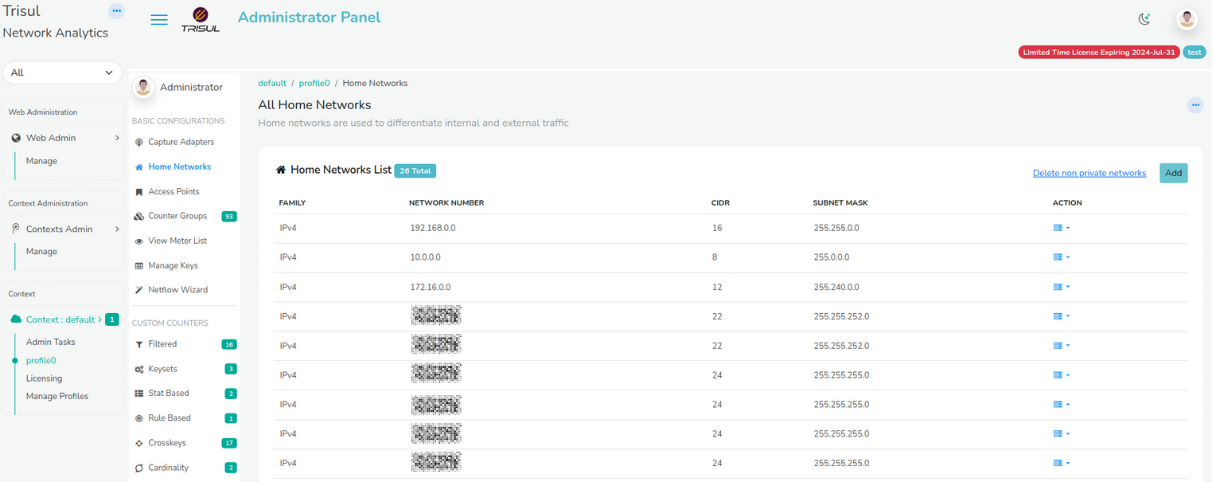
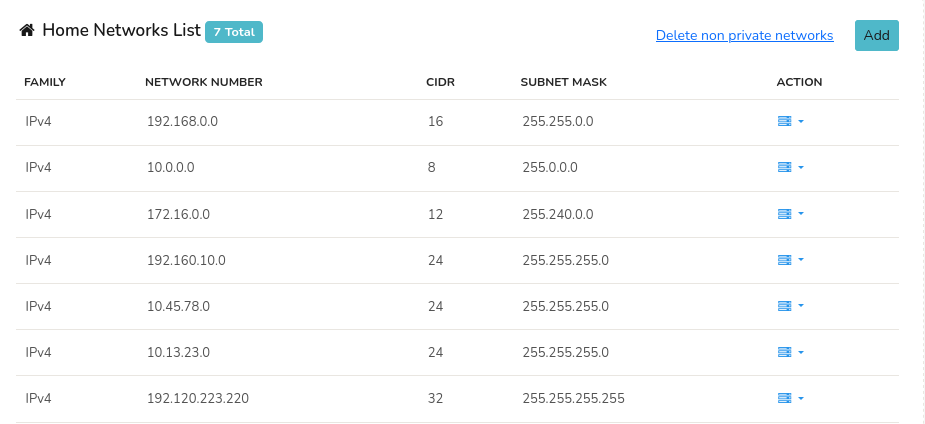
home networks screenshot changed since the old screenshot had masked ips. and navigation details added as login as user to view home network traffic.

diff --git a/trisuldocs/docs/ag/context/home_networks.md b/trisuldocs/docs/ag/context/home_networks.md
@@ -27,49 +27,41 @@ reports and views. If you want to add a new subnet to your home network
 or edit an existing entry, follow these steps.
 
 :::info navigation
-
-:point_right: (login as admin) Select *Context : default &rarr; profile0 -&rarr; Home
-Networks*
-
+:point_right: (login as admin) Go to Context: Default &rarr; Profile0 &rarr; Home
+Networks
 :::
 
 You are shown the following screen
 
-![](images/homenetworks.png)
-
+![](images/homenetworks.png)  
 *Figure: Showing a list of configured Home Network subnets*
 
-- Click on **Add a network**  
+- Click on **Add** button on the upper right hand side.   
 
-- Enter an IP and a subnetmask (eg, 59.92.0.0 and 255.255.0.0) that
-  represents your home network  
+- Enter an IP and a subnet mask (eg, 59.92.0.0 and 255.255.0.0) that
+  represents your home network.  
 
-- Click **Create** button to add a new home network
+- Click **Create** button to add a new home network.
 
 ## Adding Home Networks in Bulk
 
 When you click on “Add” in the Home Networks screen you can see the Add
 form below
 
-![](images/create_homenetwork_form.png)
-
+![](images/create_homenetwork_form.png)  
 *Figure: The add subnetworks screen*
 
-Here you can
+Here you can:
+### Add one by one 
+Add one by one a single network number in "Network Number" and subnet mask in "Network Mask"
 
-1. **Add one by one** : a single network number in "Network Number" and subnet mask in "Network Mask"
-2. **Add in bulk** : Simply copy paste a series of **comma separated** or
-   **one-per-line** networks in CIDR format in "Network Number". When using the CIDR format you can leave the "Network Mask" field blank.
+### Add in bulk  
+Simply copy paste a series of **comma separated** or **one-per-line** networks in CIDR format in "Network Number". When using the CIDR format you can leave the "Network Mask" field blank.
 
 ## Deleting
 
-1. Delete any single home network by pressing the “Delete” link next to
-   it.
-2. You can press the “Delete non private networks” to delete all the
-   elements in bulk except the three built-in private ranges. Use this
-   option if you want to add the home networks in bulk later.
-
-
+1. Click on the action button against any network number and delete any single home network by clicking the “Delete” option.
+2. You can click the “Delete non private networks” button on the top right to delete all the elements in bulk except the three built-in private ranges. Use this option if you want to add the home networks in bulk later.
 
 ## Viewing Traffic Direction
 
@@ -80,19 +72,16 @@ following data.
 ### Metrics in the Aggregates Counter Group.
 
 :::info navigation
-
-:point_right: Select *Tools &rarr; Long Term Traffic*
-
+:point_right: Login as `user` and Go to Tools &rarr; Long Term Traffic
 :::
 
 1. Counter group = Aggregates
 2. Meter = Total
-3. Keys to the Item = DIR_INTOHOME,DIR_OUTOFHOME,DIR_TRANSIT,DIR_WITHINHOME
+3. Keys to the Item = DIR_INTOHOME, DIR_OUTOFHOME, DIR_TRANSIT, DIR_WITHINHOME
 
 The following chart gives you the traffic details in each direction.
 
-![](images/longterm_traffic.png)
-
+![](images/longterm_traffic.png)  
 *Figure: Directional chart determined by the Home Network settings*
 
 ### Flows
@@ -105,8 +94,7 @@ Trisul has the ability to use Flow Taggers to tag each flow with a direction hin
 3. For example to see all *Transit* flows , enter `tag=[dir]transit` in
    the tool's search query.
 
-![](images/explore_flows.png)
-
+![](images/explore_flows.png)  
 *Figure: search for directional flows using a custom flow tagger*
 
 Also see user guide sections: [Flow Taggers](/docs/ug/flow/tagger), [Explore Flows](/docs/ug/tools/explore_flows)

diff --git a/trisuldocs/docs/ag/context/profiles.md b/trisuldocs/docs/ag/context/profiles.md
@@ -2,7 +2,7 @@
 sidebar_position: 3
 ---
 
-# Packet Capture Settings
+# Capture Adapters
 
 A single instance of Trisul can listen on one or more network
 interfaces. This page describes how you can add or edit packet capture
@@ -156,16 +156,15 @@ for flow based load balancing.
 
 ## Enable or Disable the Profile
 
-- Click **Enable** or **Disable** in the Profile list
+![](images/capture_adapters.png)  
+*Figure: Enable/Disable all*
 
-- To disable all adapters, click on the “Disable All” button
+- Click **Enable All** or **Disable All** on the top right hand side to enable or disable all adapters.
 
-## Edit the Profile
+### Edit the Profile
 
-- Click **Edit** in the Profile list  
+Click the action button against any interface and a dropdown menu shows up **Enable**, **Edit**, and **Delete** options in the Profile list.    
 
-- Edit the fields as shown in “Add..”
-
-## Delete the Profile
-
-- Click **Delete** in the profile list.
+- **Enable**: Click enable to enable the selected interface.  
+- **Edit**: Click edit to modify the adapter configuration.  
+- **Delete**: Click delete to delete the selected interface.  
